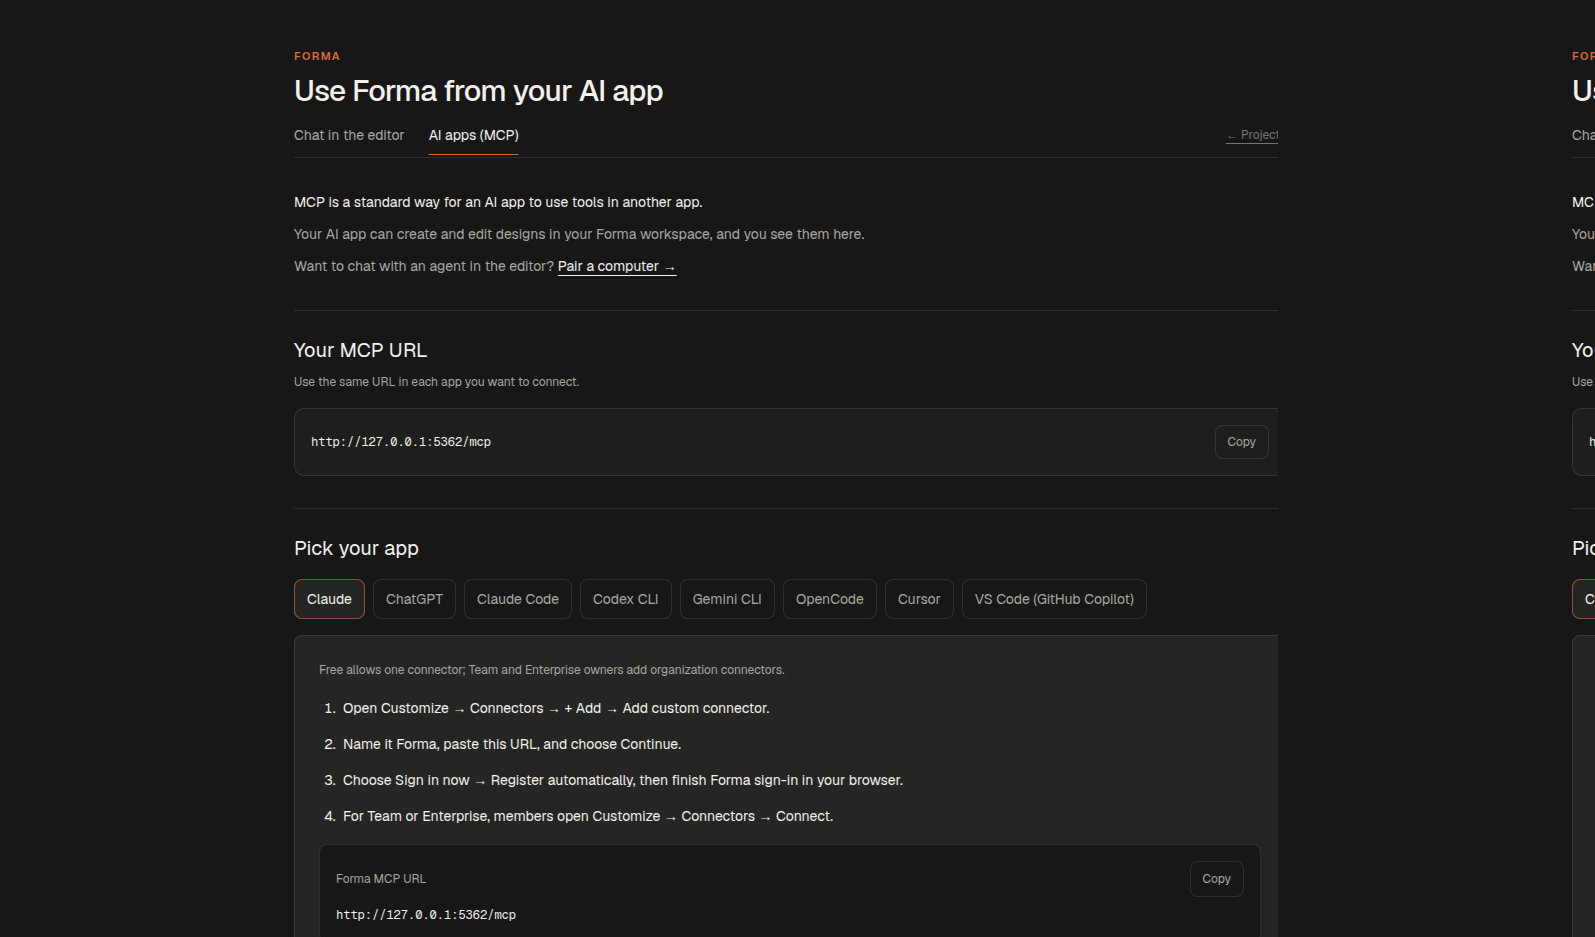
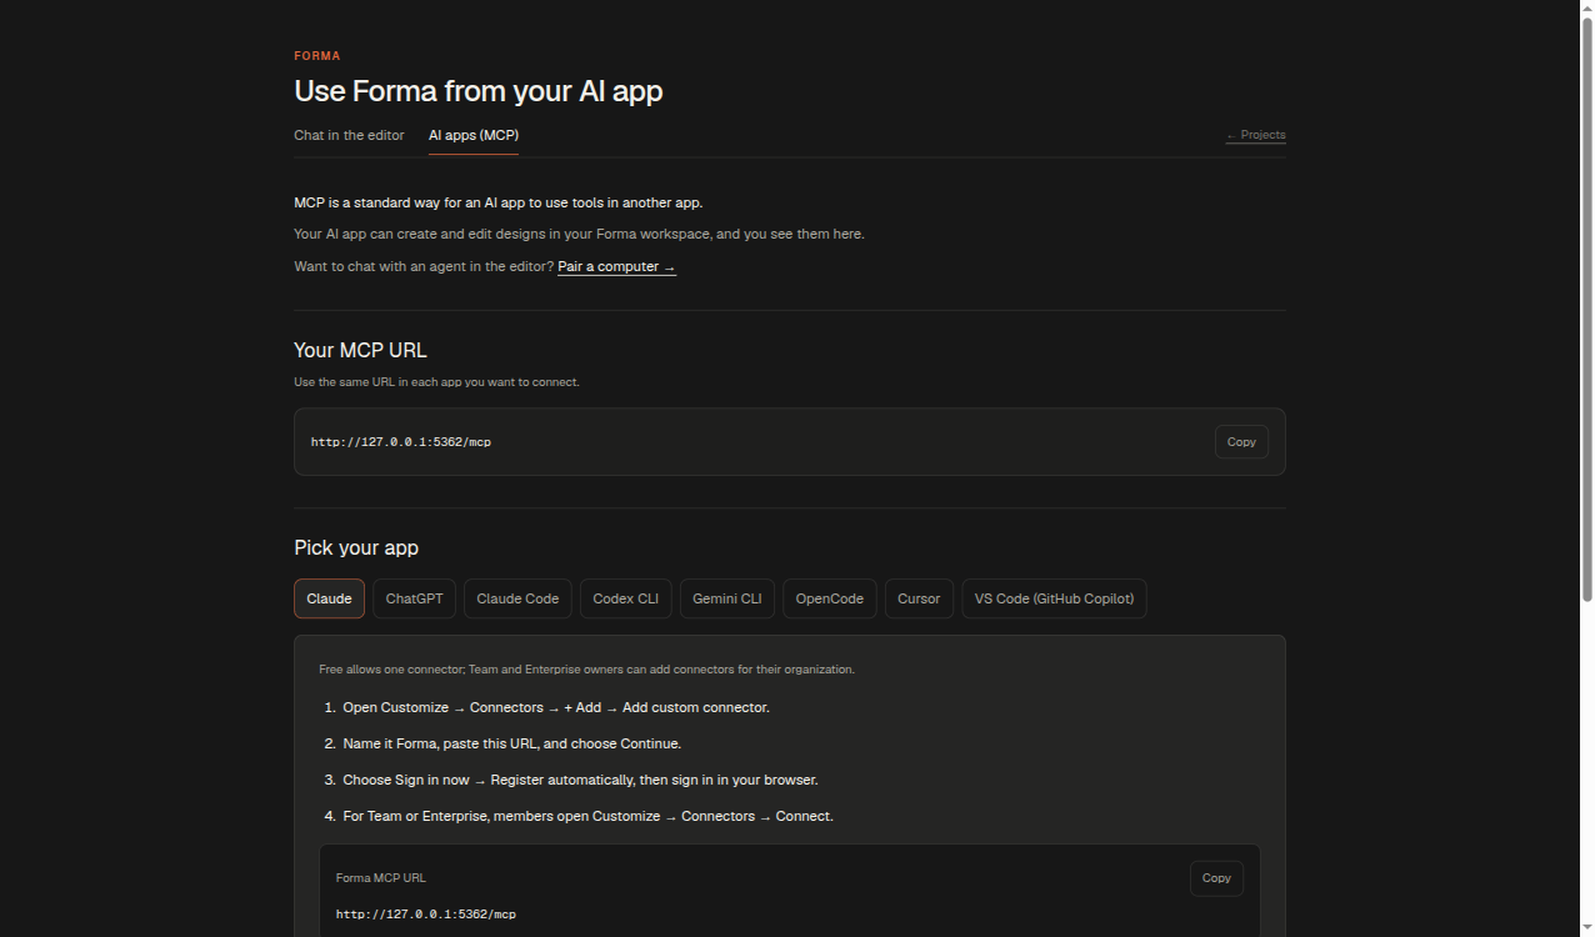
fix: refine MCP host setup copy

diff --git a/apps/web/src/mcp-hosts.ts b/apps/web/src/mcp-hosts.ts
@@ -14,7 +14,7 @@ export interface McpTokenPath {
 export interface McpHost {
   readonly id: string;
   readonly name: string;
-  readonly requirement: string;
+  readonly requirement?: string;
   readonly steps: readonly string[];
   readonly samples: readonly McpCodeSample[];
   readonly officialGuide: string;
@@ -25,11 +25,11 @@ export const MCP_HOSTS: readonly McpHost[] = [
   {
     id: "claude",
     name: "Claude",
-    requirement: "Free allows one connector; Team and Enterprise owners add organization connectors.",
+    requirement: "Free allows one connector; Team and Enterprise owners can add connectors for their organization.",
     steps: [
       "Open Customize → Connectors → + Add → Add custom connector.",
       "Name it Forma, paste this URL, and choose Continue.",
-      "Choose Sign in now → Register automatically, then finish Forma sign-in in your browser.",
+      "Choose Sign in now → Register automatically, then sign in in your browser.",
       "For Team or Enterprise, members open Customize → Connectors → Connect.",
     ],
     samples: [{
@@ -43,11 +43,11 @@ export const MCP_HOSTS: readonly McpHost[] = [
   {
     id: "chatgpt",
     name: "ChatGPT",
-    requirement: "Business, Enterprise, or Edu for editing; Pro is read only. A workspace admin must publish the app.",
+    requirement: "Editing needs a Business, Enterprise or Edu plan; on Pro, Forma is read-only. A workspace admin publishes the app.",
     steps: [
       "Enable developer mode: Pro uses Settings → Apps; Business owners/admins use Workspace settings → Permissions & Roles → Connected Data; Enterprise/Edu needs RBAC access, then Settings → Apps → Advanced Settings.",
-      "Choose Settings → Apps → Create (admins: Workspace settings → Apps → Create), enter Forma and its URL, then choose OAuth.",
-      "Choose Scan Tools, finish Forma sign-in in your browser, then choose Create.",
+      "Choose Settings → Apps → Create (admins: Workspace settings → Apps → Create), enter Forma and its URL, then choose the browser sign-in option.",
+      "Choose Scan Tools, sign in in your browser, then choose Create.",
       "A Business owner/admin or authorized Enterprise/Edu publisher publishes from Workspace settings → Apps → Drafts.",
     ],
     samples: [{
@@ -61,16 +61,15 @@ export const MCP_HOSTS: readonly McpHost[] = [
   {
     id: "claude-code",
     name: "Claude Code",
-    requirement: "No MCP-specific plan gate is listed; organization policy can restrict servers.",
     steps: [
       "In your project directory, register Forma with this command.",
-      "Run the OAuth sign-in command and finish sign-in in your browser.",
+      "Run the browser sign-in command, then sign in in your browser.",
       "Approve the project config when prompted, then check the connection.",
     ],
     samples: [{
-      label: "OAuth setup commands",
-      accessibleName: "Claude Code OAuth setup command",
-      copyName: "Copy Claude Code OAuth setup command",
+      label: "Commands",
+      accessibleName: "Claude Code sign-in and connection check commands",
+      copyName: "Copy Claude Code sign-in and connection check commands",
       content: (mcpUrl) => `claude mcp add --transport http --scope project forma "${mcpUrl}"\nclaude mcp login forma\nclaude mcp get forma`,
     }],
     officialGuide: "https://code.claude.com/docs/en/mcp",
@@ -106,16 +105,15 @@ export const MCP_HOSTS: readonly McpHost[] = [
   {
     id: "codex-cli",
     name: "Codex CLI",
-    requirement: "No MCP-specific plan gate is listed; account or managed-organization policy can restrict servers.",
     steps: [
       "Register Forma with this command.",
-      "Run the OAuth sign-in command and finish sign-in in your browser.",
+      "Run the browser sign-in command, then sign in in your browser.",
       "Check the connection with the final command in the block, or run /mcp in the TUI.",
     ],
     samples: [{
-      label: "OAuth setup commands",
-      accessibleName: "Codex CLI OAuth setup command",
-      copyName: "Copy Codex CLI OAuth setup command",
+      label: "Commands",
+      accessibleName: "Codex CLI sign-in and connection check commands",
+      copyName: "Copy Codex CLI sign-in and connection check commands",
       content: (mcpUrl) => `codex mcp add forma --url "${mcpUrl}"\ncodex mcp login forma\ncodex mcp list`,
     }],
     officialGuide: "https://developers.openai.com/codex/mcp",
@@ -132,7 +130,7 @@ export const MCP_HOSTS: readonly McpHost[] = [
           content: () => "read -rsp 'Forma PAT: ' FORMA_TOKEN; echo; export FORMA_TOKEN",
         },
         {
-          label: "OAuth setup with a token",
+          label: "Token setup command",
           accessibleName: "Codex CLI token setup command",
           copyName: "Copy Codex CLI token setup command",
           content: (mcpUrl) => `codex mcp add forma --url "${mcpUrl}" --bearer-token-env-var FORMA_TOKEN`,
@@ -143,23 +141,22 @@ export const MCP_HOSTS: readonly McpHost[] = [
   {
     id: "gemini-cli",
     name: "Gemini CLI",
-    requirement: "No MCP-specific plan gate is listed; Google account or organization policy can restrict servers.",
     steps: [
       "Add Forma with this command.",
-      "Start Gemini, run its browser sign-in command, and finish authorization.",
+      "Start Gemini, run its browser sign-in command, then sign in in your browser.",
       "Check the connection with its server-list command.",
     ],
     samples: [{
-      label: "OAuth setup commands",
-      accessibleName: "Gemini CLI OAuth setup command",
-      copyName: "Copy Gemini CLI OAuth setup command",
+      label: "Commands",
+      accessibleName: "Gemini CLI sign-in and connection check commands",
+      copyName: "Copy Gemini CLI sign-in and connection check commands",
       content: (mcpUrl) => `gemini mcp add --transport http forma "${mcpUrl}"\ngemini\n/mcp auth forma\n/mcp list`,
     }],
     officialGuide: "https://github.com/google-gemini/gemini-cli/blob/main/docs/tools/mcp-server.md",
     token: {
       steps: [
         "Create a personal access token below, then enter it at a shell prompt.",
-        "Run the command below to add its bearer header. Gemini saves the expanded token in its config.",
+        "Run the command below to add its bearer header.",
       ],
       samples: [
         {
@@ -175,30 +172,29 @@ export const MCP_HOSTS: readonly McpHost[] = [
           content: (mcpUrl) => `gemini mcp add --transport http --header "Authorization: Bearer $FORMA_TOKEN" forma "${mcpUrl}"`,
         },
       ],
-      warning: "Gemini CLI does not document an environment-variable reference for remote HTTP headers. This command expands $FORMA_TOKEN and saves the bearer token in Gemini's config.",
+      warning: "Gemini saves this token in its config file.",
     },
   },
   {
     id: "opencode",
     name: "OpenCode",
-    requirement: "No separate MCP plan requirement is listed; model-provider sign-in is separate.",
     steps: [
-      "Add this OAuth configuration to opencode.json in your project root.",
-      "Run the sign-in command and finish OAuth in your browser.",
+      "Add this configuration to opencode.json in your project root.",
+      "Run the sign-in command, then sign in in your browser.",
       "Check the connection with the listed commands.",
     ],
     samples: [{
-      label: "OAuth project config",
-      accessibleName: "OpenCode OAuth config",
-      copyName: "Copy OpenCode OAuth config",
+      label: "Project config",
+      accessibleName: "OpenCode project config",
+      copyName: "Copy OpenCode project config",
       content: (mcpUrl) => JSON.stringify({
         $schema: "https://opencode.ai/config.json",
         mcp: { forma: { type: "remote", url: mcpUrl, enabled: true } },
       }, null, 2),
     }, {
-      label: "OAuth sign-in and check commands",
-      accessibleName: "OpenCode OAuth commands",
-      copyName: "Copy OpenCode OAuth commands",
+      label: "Sign in and check",
+      accessibleName: "OpenCode sign-in and connection check commands",
+      copyName: "Copy OpenCode sign-in and connection check commands",
       content: () => "opencode mcp auth forma\nopencode mcp list\nopencode mcp debug forma",
     }],
     officialGuide: "https://opencode.ai/docs/mcp-servers/",
@@ -237,16 +233,15 @@ export const MCP_HOSTS: readonly McpHost[] = [
   {
     id: "cursor",
     name: "Cursor",
-    requirement: "No MCP-specific plan gate is listed; team or Enterprise policy can restrict servers.",
     steps: [
       "Add this configuration to .cursor/mcp.json in your project root.",
       "Open Customize and check that Forma is listed.",
-      "Choose Forma and finish the browser sign-in.",
+      "Choose Forma, then sign in in your browser.",
     ],
     samples: [{
-      label: "OAuth project config",
-      accessibleName: "Cursor OAuth config",
-      copyName: "Copy Cursor OAuth config",
+      label: "Project config",
+      accessibleName: "Cursor project config",
+      copyName: "Copy Cursor project config",
       content: (mcpUrl) => JSON.stringify({ mcpServers: { forma: { url: mcpUrl } } }, null, 2),
     }],
     officialGuide: "https://cursor.com/docs/mcp",
@@ -285,7 +280,7 @@ export const MCP_HOSTS: readonly McpHost[] = [
     steps: [
       "Open the Command Palette and run MCP: Add Server.",
       "Choose HTTP, enter this URL, name the server forma, and save to your workspace .mcp.json.",
-      "Start Forma, finish browser sign-in, then run MCP: List Servers.",
+      "Start Forma, sign in in your browser, then run MCP: List Servers.",
     ],
     samples: [{
       label: "Forma MCP URL",

diff --git a/apps/web/src/Agents.test.tsx b/apps/web/src/Agents.test.tsx
@@ -240,12 +240,60 @@ describe("agent credentials", () => {
     }
 
     fireEvent.click(screen.getByRole("tab", { name: "Claude Code" }));
-    const snippet = screen.getByLabelText("Claude Code OAuth setup command");
+    const snippet = screen.getByLabelText("Claude Code sign-in and connection check commands");
     expect(snippet.textContent).toContain(liveUrl);
     const writeText = vi.fn(() => Promise.resolve());
     Object.defineProperty(navigator, "clipboard", { configurable: true, value: { writeText } });
-    fireEvent.click(screen.getByRole("button", { name: "Copy Claude Code OAuth setup command" }));
+    fireEvent.click(screen.getByRole("button", { name: "Copy Claude Code sign-in and connection check commands" }));
     await waitFor(() => expect(writeText).toHaveBeenCalledWith(snippet.textContent));
+  });
+
+  it("shows plan requirements only when the person needs to know them", () => {
+    window.history.replaceState({}, "", "/agents/mcp");
+    renderAgents();
+
+    const panel = screen.getByRole("tabpanel");
+    const tabsWithoutRequirements = ["Claude Code", "Codex CLI", "Gemini CLI", "OpenCode", "Cursor"];
+    for (const name of tabsWithoutRequirements) {
+      fireEvent.click(screen.getByRole("tab", { name }));
+      expect(panel.querySelector(":scope > p")).toBeNull();
+    }
+
+    fireEvent.click(screen.getByRole("tab", { name: "Claude" }));
+    expect(panel.querySelector(":scope > p")?.textContent).toContain("Free allows one connector");
+    fireEvent.click(screen.getByRole("tab", { name: "ChatGPT" }));
+    expect(panel.querySelector(":scope > p")?.textContent).toBe(
+      "Editing needs a Business, Enterprise or Edu plan; on Pro, Forma is read-only. A workspace admin publishes the app.",
+    );
+    fireEvent.click(screen.getByRole("tab", { name: "VS Code (GitHub Copilot)" }));
+    expect(panel.querySelector(":scope > p")?.textContent).toContain("VS Code 1.99+");
+  });
+
+  it("uses plain sign-in copy and meaningful sample labels and names", () => {
+    window.history.replaceState({}, "", "/agents/mcp");
+    renderAgents();
+
+    const labels: ReadonlyArray<readonly [string, string, string]> = [
+      ["Claude Code", "Commands", "Claude Code sign-in and connection check commands"],
+      ["Codex CLI", "Commands", "Codex CLI sign-in and connection check commands"],
+      ["Gemini CLI", "Commands", "Gemini CLI sign-in and connection check commands"],
+      ["OpenCode", "Project config", "OpenCode project config"],
+      ["OpenCode", "Sign in and check", "OpenCode sign-in and connection check commands"],
+      ["Cursor", "Project config", "Cursor project config"],
+    ];
+    for (const [hostName, sampleLabel, accessibleName] of labels) {
+      fireEvent.click(screen.getByRole("tab", { name: hostName }));
+      const panel = screen.getByRole("tabpanel");
+      expect(screen.getByText(sampleLabel)).toBeTruthy();
+      expect(screen.getByLabelText(accessibleName)).toBeTruthy();
+      expect(screen.getByRole("button", { name: `Copy ${accessibleName}` })).toBeTruthy();
+      expect(panel.textContent).toContain("sign in in your browser");
+    }
+
+    for (const hostName of ["Claude", "ChatGPT", "Claude Code", "Codex CLI", "Gemini CLI", "OpenCode", "Cursor", "VS Code (GitHub Copilot)"]) {
+      fireEvent.click(screen.getByRole("tab", { name: hostName }));
+      expect(screen.getByRole("tabpanel").textContent).not.toContain("OAuth");
+    }
   });
 
   it("does not offer a ChatGPT token path", () => {
@@ -254,8 +302,7 @@ describe("agent credentials", () => {
     fireEvent.click(screen.getByRole("tab", { name: "ChatGPT" }));
 
     expect(screen.queryByText("Use a token instead")).toBeNull();
-    expect(screen.getByText(/Pro is read only/i)).toBeTruthy();
-    expect(screen.getByText(/admin must publish/i)).toBeTruthy();
+    expect(screen.getByText("Editing needs a Business, Enterprise or Edu plan; on Pro, Forma is read-only. A workspace admin publishes the app.")).toBeTruthy();
   });
 
   it("warns that Gemini CLI saves an expanded token in its config", () => {
@@ -264,8 +311,9 @@ describe("agent credentials", () => {
     fireEvent.click(screen.getByRole("tab", { name: "Gemini CLI" }));
     fireEvent.click(screen.getByText("Use a token instead"));
 
-    expect(screen.getByText(/saves the bearer token in Gemini's config/i)).toBeTruthy();
-    expect(screen.getByText(/does not document an environment-variable reference/i)).toBeTruthy();
+    expect(screen.getByText("Gemini saves this token in its config file.")).toBeTruthy();
+    const tokenSteps = screen.getByText("Use a token instead").closest("details")?.querySelector("ol");
+    expect(tokenSteps?.textContent).not.toMatch(/config file|saves? this token/i);
     expect(screen.getByLabelText("Gemini CLI token setup command").textContent).toContain("$FORMA_TOKEN");
     expect(screen.getByRole("link", { name: "Personal access tokens" }).getAttribute("href")).toBe("#tokens");
   });

diff --git a/apps/web/src/Agents.tsx b/apps/web/src/Agents.tsx
@@ -113,7 +113,7 @@ function McpConnections() {
       <section id="tokens" className="mcp-section" aria-labelledby="tokens-heading">
         <h2 id="tokens-heading" className="text-base font-medium text-paper">Personal access tokens</h2>
         <p className="mt-2 text-sm leading-6 text-muted">
-          Use a personal access token with an app that supports bearer headers. OAuth is available in several command-line apps. Revoking a token does not disconnect other apps.
+          Use a personal access token with an app that supports bearer headers. Several command-line apps also support sign-in in your browser. Revoking a token does not disconnect other apps.
         </p>
 
         <form className="mt-4 flex flex-wrap gap-2" onSubmit={submit}>
@@ -254,7 +254,7 @@ function McpHostPicker({ mcpUrl }: { mcpUrl: string }) {
         tabIndex={0}
         className="mcp-host-panel mt-4 min-w-0 rounded-lg border border-edge bg-surface-2 p-4 outline-none focus-visible:outline focus-visible:outline-2 focus-visible:outline-offset-2 focus-visible:outline-signal sm:p-6"
       >
-        <p className="text-xs leading-5 text-muted">{selectedHost.requirement}</p>
+        {selectedHost.requirement && <p className="text-xs leading-5 text-muted">{selectedHost.requirement}</p>}
         <ol className="mt-4 list-decimal space-y-3 pl-5 text-sm leading-6 text-paper">
           {selectedHost.steps.map((step) => <li key={step} className="pl-1">{step}</li>)}
         </ol>
